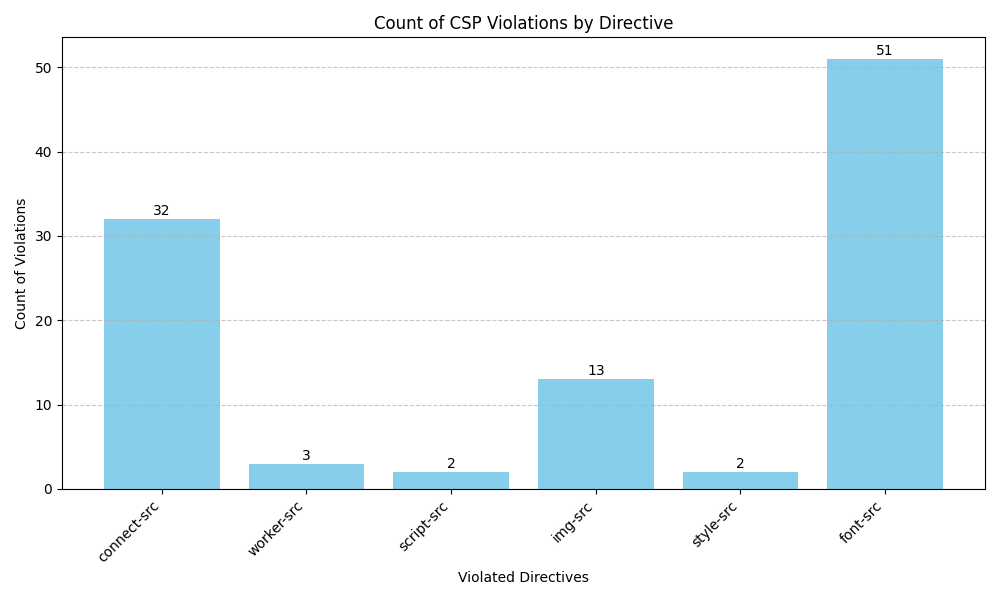
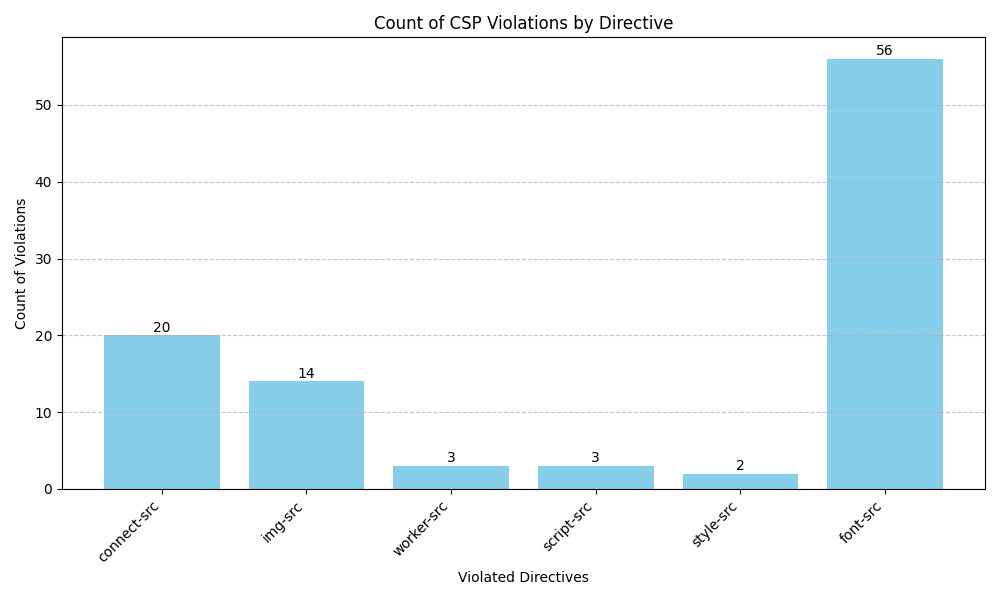
added af eature to collect major issues

diff --git a/myServer/public/js/dynamic-csp-gen.js b/myServer/public/js/dynamic-csp-gen.js
@@ -1,29 +1,29 @@
 const fs = require('fs').promises;
 const { checkUrls } = require('../../../url_checking.js');
-const {downloadWasm} = require('./download-wasm.js');
+const { downloadWasm } = require('./download-wasm.js');
 
 let writeLock = false;
 
-function waitForLock(){
+function waitForLock() {
     return new Promise(resolve => {
         (function waitForUnlock() {
             if (!writeLock) {
                 resolve();
-            }else{
-                setTimeout(waitForLock,500);
+            } else {
+                setTimeout(waitForLock, 500);
             }
         })();
     });
 }
 
-async function writeToFile(data){
+async function writeToFile(data) {
     await waitForLock();
     writeLock = true;
     try {
-        await fs.writeFile('C:/Non-Software/Coding_Things/Cloud_Security/dynamic-csp-generation/csp-header.txt', data, 'utf8');
+        await fs.writeFile('./csp-header.txt', data, 'utf8');
     } catch (error) {
         console.error('Error writing to file', error);
-    } finally{
+    } finally {
         writeLock = false;
     }
 }
@@ -31,7 +31,7 @@ async function writeToFile(data){
 
 async function dynamicCspGenerator(reqBody) {
     try {
-        const data = await fs.readFile('C:/Non-Software/Coding_Things/Cloud_Security/dynamic-csp-generation/csp-header.txt', 'utf8');
+        const data = await fs.readFile('./csp-header.txt', 'utf8');
         const cspHeader = JSON.parse(data);
         const violatedDirective = reqBody['csp-report']['violated-directive'];
         let directive;
@@ -54,25 +54,28 @@ async function dynamicCspGenerator(reqBody) {
         try {
             urlObj = new URL(url);
             domain = `${urlObj.protocol}//${urlObj.hostname}:${urlObj.port}`;
-            if (!cspHeader[directive].includes(domain.slice(0, -1))) {
+            if (domain.endsWith(':')) {
+                domain = domain.slice(0, -1);
+            }
+            if (!cspHeader[directive].includes(domain)) {
                 const baseURL = reqBody['csp-report']['document-uri'];
                 let urlList = cspHeader[directive].split(' ');
                 if (urlList[0] === "'none'") {
                     urlList = [];
                 }
                 if (domain !== baseURL) {
-                    urlList.push(domain.slice(0, -1));
+                    urlList.push(domain);
                 }
                 const urlSet = new Set(urlList);
-                const newList = await checkUrls(Array.from(urlSet));
+                const newList = await checkUrls(directive, Array.from(urlSet));
                 cspHeader[directive] = newList.join(' ');
-                
+
                 const newData = JSON.stringify(cspHeader, null, 2);
-                
+
                 await writeToFile(newData);
                 console.log('adding', domain, ' for directive => ', directive);
                 console.log('File has been updated successfully.');
-                
+
             }
         } catch (err) {
             try {
@@ -82,23 +85,35 @@ async function dynamicCspGenerator(reqBody) {
                 else if ((directive === 'img-src' || directive === 'connect-src') && url === 'data') {
                     url = 'data:';
                 }
-                // else if (url === 'wasm-eval') {
-                //     url = "'unsafe-eval'";
-                // }
-                else return;
-    
+                else {
+                    const issue = `Potential threat found: ${url} in directive: ${directive}`;
+                    try {
+                        const data = await fs.readFile("./issues.txt", 'utf8');
+                
+                        if (!data.includes(issue)) {
+                            await fs.appendFile('./issues.txt', `\n${issue}`);
+                            console.log("Issue added to file");
+                        } else {
+                            console.log("Issue already registered.");
+                        }
+                    } catch (err) {
+                        console.error("Error handling file:", err);
+                    }
+                    return;
+                }
+
                 if (!cspHeader[directive].includes(url)) {
                     const urlList = cspHeader[directive].split(' ');
-    
+
                     if (urlList.length === 1 && urlList[0] === 'none') {
                         urlList = [];
                     }
                     urlList.push(url);
                     const urlSet = new Set(urlList);
                     cspHeader[directive] = Array.from(urlSet).join(' ');
-    
+
                     const newData = JSON.stringify(cspHeader, null, 2);
-    
+
                     await writeToFile(newData);
                     console.log('adding', url, ' for directive => ', directive);
                     console.log('File has been updated successfully.');
@@ -106,7 +121,7 @@ async function dynamicCspGenerator(reqBody) {
             } catch (error) {
                 console.error("Error updating CSP: ", error);
             }
-            
+
         }
     } catch (error) {
         console.error('Error reading from file', error);

diff --git a/url_checking.js b/url_checking.js
@@ -1,5 +1,6 @@
 require('dotenv').config();
 const axios = require('axios');
+const fs = require('fs')
 const readline = require('readline');
 const {checkJasonpUrls} = require('./jsonp_checking.js');
 
@@ -30,11 +31,24 @@ function countMaliciousVendors(report) {
     return positives;
 }
 
-async function checkUrl(url, good) {
+async function checkUrl(url, directive, good) {
     const report = await getReport(API_KEY, url);
     const maliciousCount = countMaliciousVendors(report);
     if (maliciousCount > 0) {
         console.log(`The URL ${url} is flagged as malicious by ${maliciousCount} security vendors.`);
+        const issue = `Malicious URL found: ${url} in directive: ${directive}`;
+        try {
+            const data = await fs.readFile("./issues.txt", 'utf8');
+    
+            if (!data.includes(issue)) {
+                await fs.appendFile('./issues.txt', `\n${issue}`);
+                console.log("Issue added to file");
+            } else {
+                console.log("Issue already registered.");
+            }
+        } catch (err) {
+            console.error("Error handling file:", err);
+        }
         maliciousUrls.push(url);
     } else {
         good.add(url);
@@ -42,14 +56,14 @@ async function checkUrl(url, good) {
     }
 }
 
-async function checkUrls(urls) {
+async function checkUrls(directive, urls) {
     let good = new Set();
     for (const url of urls) {
         if (url !== 'self') {
-            await checkUrl(url, good);
+            await checkUrl(url, directive, good);
         }
     }
-    await checkJasonpUrls(Array.from(good));
+    await checkJasonpUrls(directive, Array.from(good));
     return Array.from(good);
 }
 

diff --git a/csp_gen.js b/csp_gen.js
@@ -1,5 +1,5 @@
 const { checkUrls } = require('./url_checking.js');
-const fs = require('fs');
+const fs = require('fs').promises;
 
 async function csp_generator(baseURL, urlList) {
     console.log('Generating CSP...');
@@ -124,7 +124,7 @@ async function csp_generator(baseURL, urlList) {
     });
 
     Object.entries(csp_list).forEach(async ([directive, sources]) => {
-        csp_list[directive] = await checkUrls(Array.from(sources));
+        csp_list[directive] = await checkUrls(directive, Array.from(sources));
     });
 
     csp_list['script-src'].add("'unsafe-inline'");
@@ -163,14 +163,12 @@ async function csp_generator(baseURL, urlList) {
     };
 
 
-    fs.writeFile('C:/Non-Software/Coding_Things/Cloud_Security/dynamic-csp-generation/csp-header.txt', JSON.stringify(cspDirectives, null, 2), (err) => {
-        if (err) {
-            console.error('Error writing CSP headerto file: ', err);
-        }
-        else {
-            console.log('CSP header saved to file.');
-        }
-    });
+    try {
+        await fs.writeFile('./csp-header.txt', JSON.stringify(cspDirectives, null, 2));
+        console.log('CSP header saved to file.');
+    } catch (err) {
+        console.error('Error writing CSP header to file: ', err);
+    }
     return cspDirectives;
 }
 

diff --git a/jsonp_checking.js b/jsonp_checking.js
@@ -1,3 +1,5 @@
+const fs = require('fs').promises;
+
 async function analyzeJSONP(url) {
 
 	const response = await fetch(url);
@@ -41,22 +43,33 @@ const urlsToCheck = [
 	'https://cdn.prod.website-files.com'
 ];
 
-async function checkJasonpUrls(urls) {
-	const noJsonp = new Set();
+async function checkJasonpUrls(directive, urls) {
 	for (const url of urls) {
 		if (url !== 'self') {
 			try {
 				const result = await analyzeJSONP(url);
 				if (result.isPotentialJSONP) {
 					console.log("Potential JSONP URL: ", url);
+					const issue = `Potential JSONP URL found: ${url} in directive: ${directive}`;
+					try {
+						const data = await fs.readFile("./issues.txt", 'utf8');
+				
+						if (!data.includes(issue)) {
+							await fs.appendFile('./issues.txt', `\n${issue}`);
+							console.log("Issue added to file");
+						} else {
+							console.log("Issue already registered.");
+						}
+					} catch (err) {
+						console.error("Error handling file:", err);
+					}
 				}
 			}
 			catch (err) {
-				console.error("Invalid URL. Got =>", url);
+				console.error("Invalid URL inside jsonpChecker. Got =>", url);
 			}
 		}
 	}
-	return Array.from(noJsonp);
 }
 
 async function runAnalysis() {

diff --git a/myServer/server.js b/myServer/server.js
@@ -58,7 +58,7 @@ app.use(async (req, res, next) => {
     const nonce = res.locals.nonce;
     try {
         const data = await fs.readFile(
-            "C:/Non-Software/Coding_Things/Cloud_Security/dynamic-csp-generation/csp-header.txt",
+            "./csp-header.txt",
             "utf8"
         );
         if (data !== "") {

diff --git a/myServer/results_graph.py b/myServer/results_graph.py
@@ -3,49 +3,49 @@ import numpy as np
 import matplotlib.pyplot as plt
 import json
 
-# directives = {}
+directives = {}
 
-# with open('C:/Non-Software/Coding_Things/Cloud_Security/dynamic-csp-generation/myServer/csp-violation.log','r') as file:
-#     for line in file:
-#         line = line.strip()
-#         if line:
-#             data = json.loads(line)
-#             directive = ''
-#             if data['csp-report']['violated-directive'] == 'script-src-ele':
-#                 directive = 'script-src'
-#             elif data['csp-report']['violated-directive'] == 'style-src-elem':
-#                 directive = 'style-src'
-#             else: 
-#                 directive = data['csp-report']['violated-directive']
+with open('./csp-violation.log','r') as file:
+    for line in file:
+        line = line.strip()
+        if line:
+            data = json.loads(line)
+            directive = ''
+            if data['csp-report']['violated-directive'] == 'script-src-ele':
+                directive = 'script-src'
+            elif data['csp-report']['violated-directive'] == 'style-src-elem':
+                directive = 'style-src'
+            else: 
+                directive = data['csp-report']['violated-directive']
             
-#             if directive in directives:
-#                 directives[directive] += 1
-#             else:
-#                 directives[directive] = 1
+            if directive in directives:
+                directives[directive] += 1
+            else:
+                directives[directive] = 1
                 
-# directive = list(directives.keys())
-# counts = list(directives.values())
+directive = list(directives.keys())
+counts = list(directives.values())
 
-# plt.figure(figsize=(10,6))
-# plt.bar(directive,counts, color='skyblue')
-# plt.xlabel('Violated Directives')
-# plt.ylabel('Count of Violations')
-# plt.title('Count of CSP Violations by Directive')
-# plt.xticks(rotation=45, ha='right')
-# plt.grid(axis='y', linestyle='--', alpha=0.7)
+plt.figure(figsize=(10,6))
+plt.bar(directive,counts, color='skyblue')
+plt.xlabel('Violated Directives')
+plt.ylabel('Count of Violations')
+plt.title('Count of CSP Violations by Directive')
+plt.xticks(rotation=45, ha='right')
+plt.grid(axis='y', linestyle='--', alpha=0.7)
 
-# for i, count in enumerate(counts):
-#     plt.text(i, count + 0.1, str(count), ha='center', va='bottom')
+for i, count in enumerate(counts):
+    plt.text(i, count + 0.1, str(count), ha='center', va='bottom')
     
-# plt.tight_layout()
+plt.tight_layout()
 
-# plt.savefig('C:/Non-Software/Coding_Things/Cloud_Security/dynamic-csp-generation/myServer/csp_violations_by_directive.png')
-# plt.show()
-
-
+plt.savefig('./csp_violations_by_directive.png')
+plt.show()
 
 
-data = pd.read_csv('C:/Non-Software/Coding_Things/Cloud_Security/dynamic-csp-generation/myServer/load_time.csv')
+
+
+data = pd.read_csv('./load_time.csv')
 
 plt.figure(figsize=(10,6))
 boxplot = data.boxplot(by="CSP", column=['Load-Time'], grid=False)
@@ -59,6 +59,6 @@ median_labels = [str(np.round(s, 2)) for s in medians]
 pos = range(len(medians))
 for tick, label in zip(pos, boxplot.get_xticklabels()):
     plt.text(pos[tick]+1, medians[tick] + 15, median_labels[tick], horizontalalignment='center', color='black', weight='semibold')
-plt.savefig('C:/Non-Software/Coding_Things/Cloud_Security/dynamic-csp-generation/myServer/page_load_times_boxplot.png')
+plt.savefig('./page_load_times_boxplot.png')
 plt.show()
 
